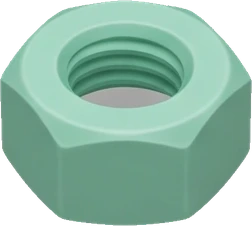
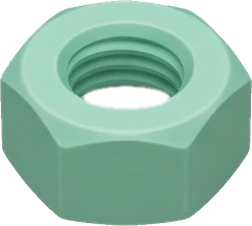
[Claude·MAC] Гайки: шестигранник во весь столбец, сквозное отверстие, завинчивание вокруг оси болта
Денис 09.09.2026 прислал кадр игры и рядом ФОТО настоящих гаек на болте: там
шестигранник крупный и читается гранями. У нас он выходил кольцом — и не потому,
что спрайт плох (грани на нём есть), а потому, что ширина столба бралась из
`ПОЛЯ_СТЕКЛА`, то есть из ПРОСВЕТА СТЕКЛЯННОЙ ПРОБИРКИ (0,636 ширины). У шкурки
«Гайки» стекла нет вовсе — столб стоит на болте, — и 36 % ширины уходили в
пустоту. Теперь ширина считается от СТОЛБЦА и ограничена высотой столба:
меньшее из «0,90 ширины» и «сколько позволяет столб на `cap` гаек с нахлёстом».
Замер: гайка 0,636 → 0,90 ширины столбца, вдвое по площади; при cap 6 и 7 ширина
сама уменьшается до 0,82 и 0,71, и верхняя гайка не вылезает за край. 0,90, а не
0,96: на кадре при 0,96 шестигранники соседних столбов касаются гранями.

Раньше в этом же заходе (правки лежали без коммита):
· у десяти спрайтов гаек пробито СКВОЗНОЕ отверстие — серое дно в дырке делало
  гайку налепленной сверху, болт сквозь неё не проходил. Мятная и белая при
  первом проходе выелись порогом по насыщенности, восстановлены из резервной
  копии и вырезаны фиксированной эллиптической геометрией;
· гайки сели ВНАХЛЁСТ (0,42) и получили `zIndex` по месту в столбе — столб
  сомкнулся, а не «висел» дырками;
· завинчивание переехало с плоского `rotate` на `perspective` + `rotateY`:
  «она вращаться должна в горизонтальной плоскости… завинчиваются». Плоский
  поворот крутит гайку как стрелку часов, это вертушка, а не резьба;
· у шариков убран зазор между порциями.
[…]

Changed region(s): [[0.3333, 0.3717, 0.6944, 0.4956]]

diff --git a/frontend/src/__tests__/nuts-on-bolt.test.tsx b/frontend/src/__tests__/nuts-on-bolt.test.tsx
@@ -147,6 +147,13 @@ describe('гайки на болте', () => {
    * 🔴 ЗАВИНЧИВАНИЕ. Пришедшие гайки проворачиваются, вставая на болт: без
    * поворота ход читается как «гайка телепортировалась».
    *
+   * 🔴 ПОВОРОТ ИМЕННО ВОКРУГ ОСИ БОЛТА (`rotateY` с перспективой), А НЕ В
+   * ПЛОСКОСТИ ЭКРАНА. Денис 09.09.2026: «анимация тоже неправильно, она
+   * вращаться должна в горизонтальной плоскости… завинчиваются». Плоский
+   * `rotate` крутит гайку как стрелку часов — это не навинчивание, а вертушка.
+   * Без `perspective` тот же `rotateY` выглядит горизонтальным сжатием, поэтому
+   * проверяются ОБА: и ось, и перспектива.
+   *
    * ⚠ Проверяется ФАКТ поворота у пришедших и его ОТСУТСТВИЕ у стоявших —
    * иначе «крутится всё» прошло бы проверку, а это другая картинка: столб
    * завинчивается заново на каждом ходу.
@@ -169,10 +176,17 @@ describe('гайки на болте', () => {
         await TestRenderer.act(async () => { сосуды()[b]?.props.onPress?.(); });
         const крутятся = гайки(r).filter((n: any) => {
           const t = плоско(n.parent?.props?.style)?.transform;
-          return Array.isArray(t) && t.some((x: any) => x.rotate !== undefined);
+          return Array.isArray(t) && t.some((x: any) => x.rotateY !== undefined);
         });
         if (крутятся.length > 0) {
           сделан = true;
+          // Ось есть — теперь перспектива: без неё поворот читается сплющиванием.
+          for (const n of крутятся) {
+            const t = плоско(n.parent?.props?.style)?.transform as any[];
+            expect(t.some((x: any) => x.perspective !== undefined)).toBe(true);
+            // И ни в коем случае не плоский `rotate` — это вертушка, а не резьба.
+            expect(t.some((x: any) => x.rotate !== undefined)).toBe(false);
+          }
           // Крутится не весь стол: стоявшие гайки поворота не получают.
           expect(крутятся.length).toBeLessThan(гайки(r).length);
           expect(гайки(r).length).toBeGreaterThanOrEqual(было - 1);
